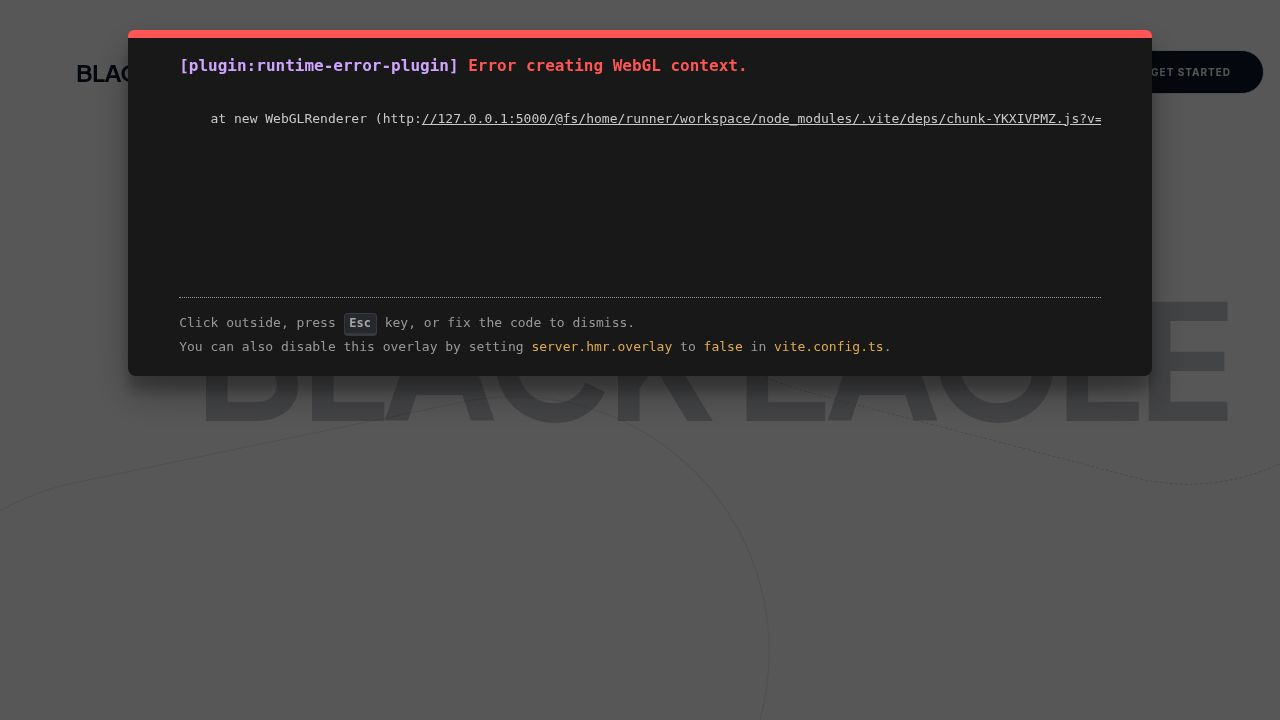
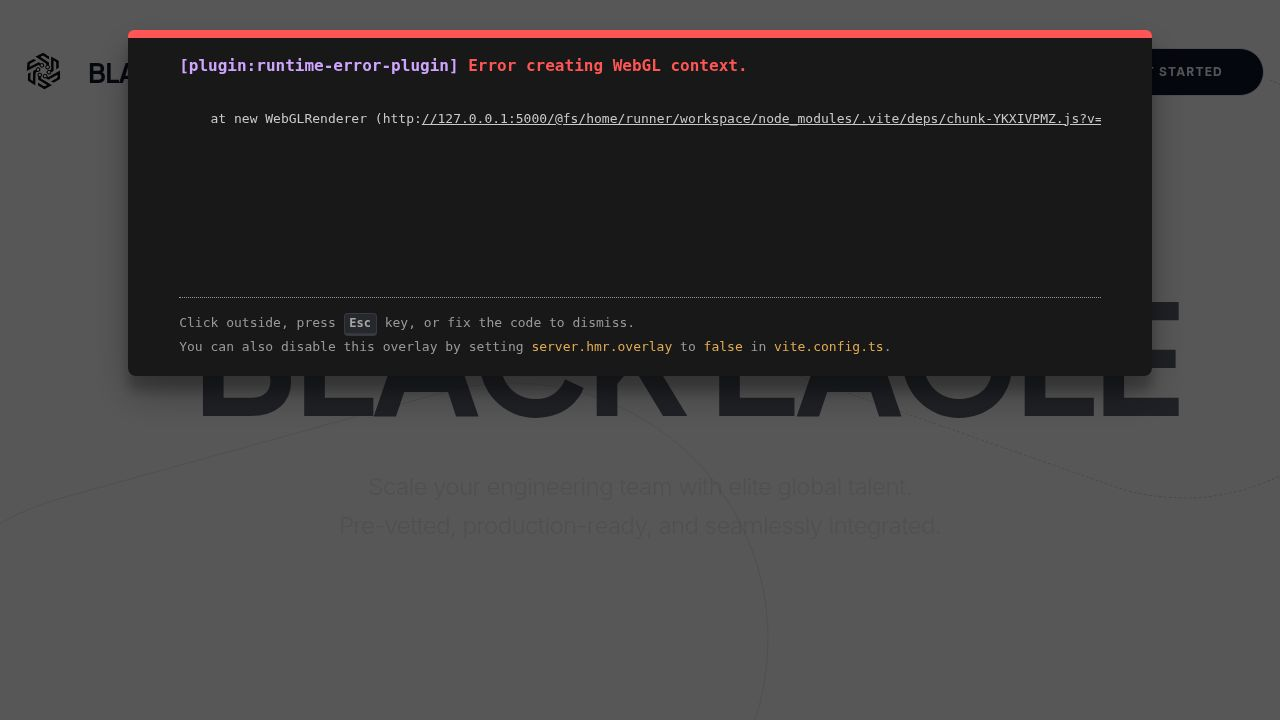
Adjust page content and headline sizes for better visual balance
Updates font sizes for headlines and body text across multiple pages (about, contact, home, pricing, services, talent) to improve visual hierarchy and readability. The main hero headline on the home page is also slightly reduced.

Replit-Commit-Author: Agent
Replit-Commit-Session-Id: 497d3b0e-409f-4d23-888f-81ec4cef6ca6
Replit-Commit-Checkpoint-Type: full_checkpoint
Replit-Commit-Event-Id: 2ee15d55-af11-4fe9-a044-135b9158f92c
Replit-Commit-Screenshot-Url: https://storage.googleapis.com/screenshot-production-us-central1/84caf45a-372a-46f8-8594-824e98d77d3b/497d3b0e-409f-4d23-888f-81ec4cef6ca6/70zzlXY
Replit-Helium-Checkpoint-Created: true

diff --git a/client/src/pages/home.tsx b/client/src/pages/home.tsx
@@ -51,7 +51,7 @@ function Hero() {
             initial={{ opacity: 0, y: 30 }}
             animate={{ opacity: 1, y: 0 }}
             transition={{ delay: 0.7, duration: 0.8 }}
-            className="text-4xl sm:text-7xl md:text-[10rem] font-bold font-heading leading-none mb-8 sm:mb-12 text-foreground tracking-tight whitespace-nowrap overflow-visible"
+            className="text-4xl sm:text-6xl md:text-[9.5rem] font-bold font-heading leading-none mb-8 sm:mb-12 text-foreground tracking-tight whitespace-nowrap overflow-visible"
           >
             BLACK EAGLE
           </motion.h1>
@@ -60,7 +60,7 @@ function Hero() {
             initial={{ opacity: 0 }}
             animate={{ opacity: 1 }}
             transition={{ delay: 1, duration: 1 }}
-            className="text-lg sm:text-xl md:text-3xl text-muted-foreground mb-10 sm:mb-16 leading-relaxed max-w-3xl mx-auto font-light tracking-tight"
+            className="text-base sm:text-lg md:text-2xl text-muted-foreground mb-10 sm:mb-16 leading-relaxed max-w-3xl mx-auto font-light tracking-tight"
           >
             Scale your engineering team with elite global talent. <br className="hidden md:block" />
             Pre-vetted, production-ready, and seamlessly integrated.

diff --git a/client/src/pages/about.tsx b/client/src/pages/about.tsx
@@ -14,10 +14,10 @@ export default function About() {
             transition={{ duration: 0.8 }}
           >
             <span className="text-primary font-black tracking-[0.5em] uppercase text-[10px] sm:text-xs mb-6 block">Our DNA</span>
-            <h1 className="text-4xl sm:text-6xl md:text-9xl font-black font-heading mb-8 md:mb-12 tracking-tighter leading-[0.85]">
+            <h1 className="text-4xl sm:text-5xl md:text-8xl font-black font-heading mb-8 md:mb-12 tracking-tighter leading-[0.85]">
               Built for <br/><span className="text-primary italic">Velocity</span>
             </h1>
-            <p className="text-lg sm:text-2xl md:text-3xl text-muted-foreground font-light leading-relaxed mb-12">
+            <p className="text-base sm:text-xl md:text-2xl text-muted-foreground font-light leading-relaxed mb-12">
               We are a technology-driven Global IT Solutions firm committed 
               to helping businesses build high-performing engineering teams worldwide.
             </p>

diff --git a/client/src/pages/contact.tsx b/client/src/pages/contact.tsx
@@ -61,10 +61,10 @@ export default function Contact() {
             transition={{ duration: 0.8 }}
           >
             <span className="text-primary font-black tracking-[0.5em] uppercase text-[10px] sm:text-xs mb-6 block">Engagement</span>
-            <h1 className="text-4xl sm:text-6xl md:text-9xl font-black font-heading mb-8 md:mb-10 tracking-tighter leading-[0.85]">
+            <h1 className="text-4xl sm:text-5xl md:text-8xl font-black font-heading mb-8 md:mb-10 tracking-tighter leading-[0.85]">
               Let's <br/><span className="text-primary italic">Connect</span>
             </h1>
-            <p className="text-lg sm:text-2xl text-muted-foreground mb-12 md:mb-16 leading-relaxed font-light">
+            <p className="text-base sm:text-xl text-muted-foreground mb-12 md:mb-16 leading-relaxed font-light">
               Discuss your technical roadmap with our team-scaling experts. 
               We're ready to bridge the talent gap for your next big build.
             </p>

diff --git a/client/src/pages/talent.tsx b/client/src/pages/talent.tsx
@@ -25,10 +25,10 @@ export default function Talent() {
           animate={{ opacity: 1, y: 0 }}
         >
           <span className="text-primary font-black tracking-[0.5em] uppercase text-[10px] sm:text-xs mb-6 block">Elite Engineering</span>
-          <h1 className="text-4xl sm:text-6xl md:text-9xl font-black font-heading mb-8 md:mb-10 tracking-tighter leading-[0.85]">
+          <h1 className="text-4xl sm:text-5xl md:text-8xl font-black font-heading mb-8 md:mb-10 tracking-tighter leading-[0.85]">
             Global <br/><span className="text-primary italic">Talent</span> Pool
           </h1>
-          <p className="text-lg sm:text-2xl md:text-3xl text-muted-foreground font-light leading-relaxed">
+          <p className="text-base sm:text-xl md:text-2xl text-muted-foreground font-light leading-relaxed">
             Our engineers are rigorously screened for technical mastery, 
             architectural thinking, and high-velocity problem solving.
           </p>

diff --git a/client/src/pages/services.tsx b/client/src/pages/services.tsx
@@ -42,10 +42,10 @@ export default function Services() {
           animate={{ opacity: 1, y: 0 }}
         >
           <span className="text-primary font-black tracking-[0.5em] uppercase text-[10px] sm:text-xs mb-6 block">Our Solutions</span>
-          <h1 className="text-4xl sm:text-6xl md:text-9xl font-black font-heading mb-8 md:mb-10 tracking-tighter leading-[0.85]">
+          <h1 className="text-4xl sm:text-5xl md:text-8xl font-black font-heading mb-8 md:mb-10 tracking-tighter leading-[0.85]">
             Enterprise <br/><span className="text-primary italic">Grade</span> Services
           </h1>
-          <p className="text-lg sm:text-2xl md:text-3xl text-muted-foreground font-light leading-relaxed">
+          <p className="text-base sm:text-xl md:text-2xl text-muted-foreground font-light leading-relaxed">
             Flexible global solutions designed to scale your engineering 
             capacity without the operational overhead.
           </p>

diff --git a/client/src/pages/pricing.tsx b/client/src/pages/pricing.tsx
@@ -13,10 +13,10 @@ export default function Pricing() {
           animate={{ opacity: 1, y: 0 }}
         >
           <span className="text-primary font-black tracking-[0.5em] uppercase text-[10px] sm:text-xs mb-6 block">Investment Models</span>
-          <h1 className="text-4xl sm:text-6xl md:text-9xl font-black font-heading mb-8 md:mb-10 tracking-tighter leading-[0.85]">
+          <h1 className="text-4xl sm:text-5xl md:text-8xl font-black font-heading mb-8 md:mb-10 tracking-tighter leading-[0.85]">
             Flexible <br/><span className="text-primary italic">Pricing</span>
           </h1>
-          <p className="text-lg sm:text-2xl md:text-3xl text-muted-foreground font-light max-w-2xl mx-auto">
+          <p className="text-base sm:text-xl md:text-2xl text-muted-foreground font-light max-w-2xl mx-auto">
             Every business is unique—our pricing adapts to your needs.
           </p>
         </motion.div>
